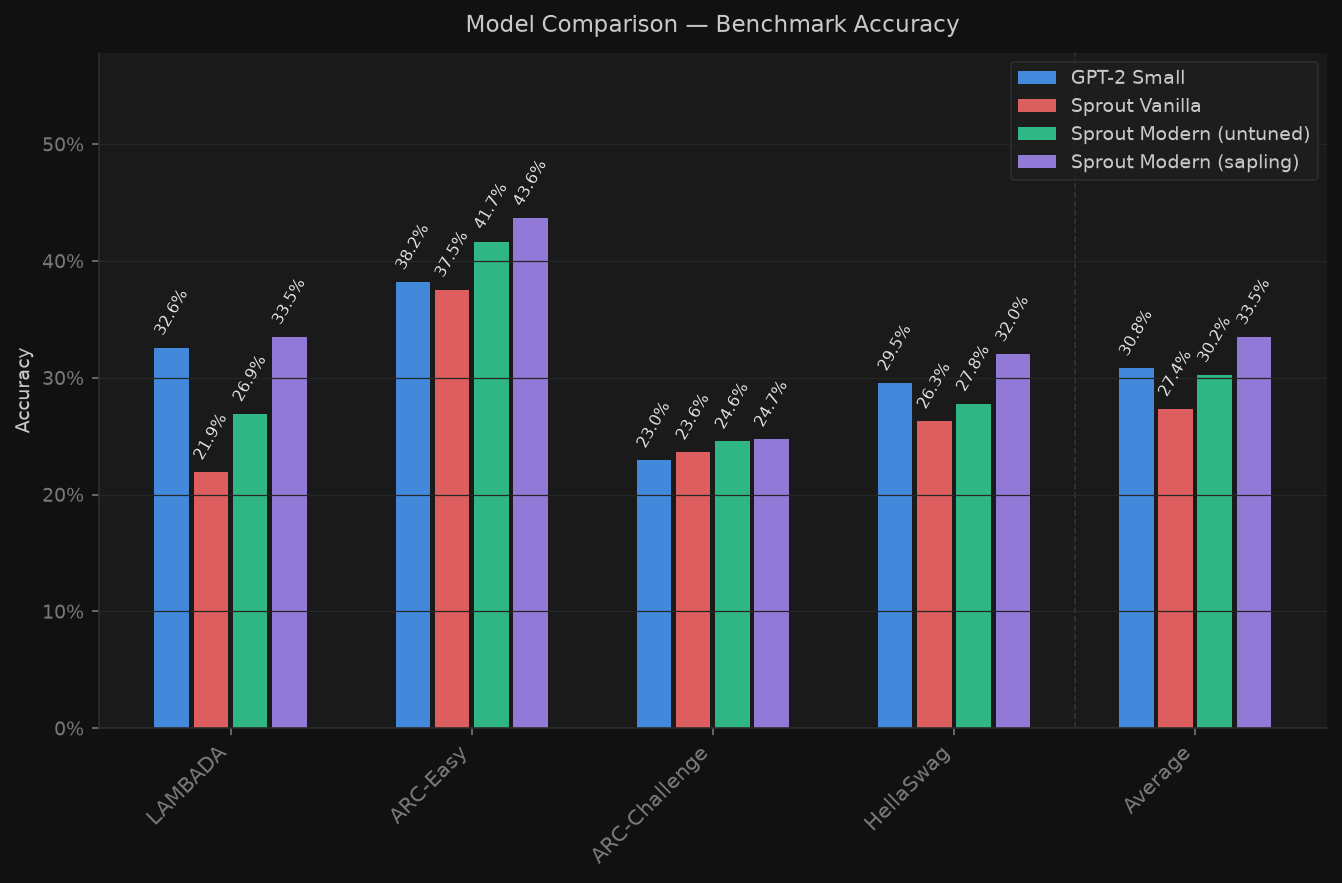
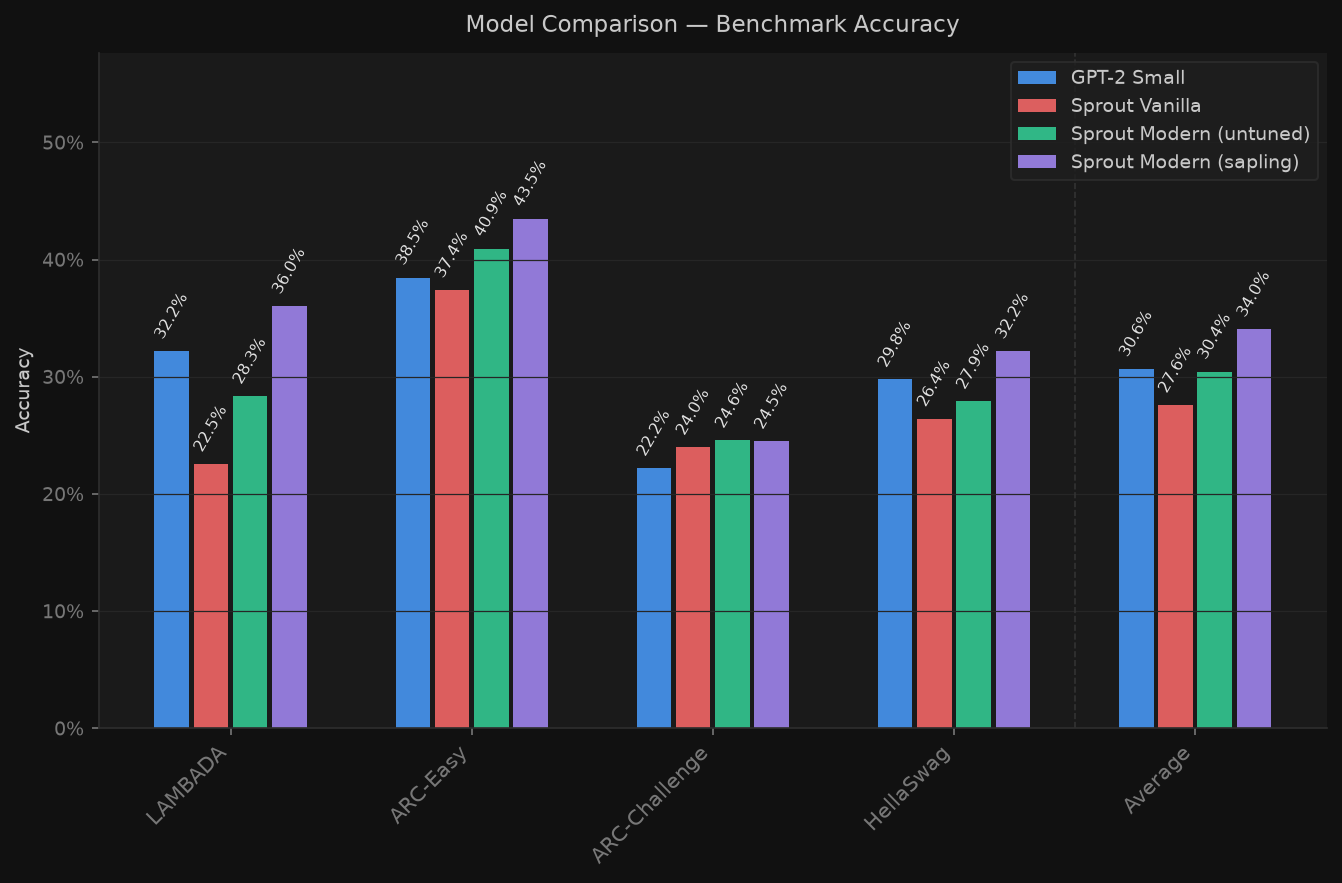
Rework the README; move the ablation to docs/; update the results to the v1.1 evaluation.

diff --git a/README.md b/README.md
@@ -1,83 +1,153 @@
-# Project: Sprout
+# Sprout
 
-A language model built from scratch — tokenizer, architecture, training loop, and SFT pipeline — trained entirely on a single consumer GPU (RTX 4070, 12GB VRAM) that is better than GPT-2-small. The 15B-token Sapling pretraining run alone took roughly 87 hours.
+Sprout is a small language model written from scratch in PyTorch. The project covers the tokenizer, the data pipeline, three model architectures, the training loop, benchmark evaluation and supervised fine-tuning (SFT). All models were trained locally on one NVIDIA RTX 4070 (12 GB). The largest model, Sapling, has 134M parameters and scores a 34.0% benchmark average. GPT-2 Small (124M) scores 30.6% on the same benchmarks.
 
-## Why
+![Benchmark accuracy of GPT-2 Small and the three Sprout models](assets/model_comparison.png)
 
-I'd used LLMs for a long time without really understanding what was happening inside them. After watching Andrej Karpathy's NanoGPT and NanoChat series, I wanted to answer two questions for myself: could I build and train a language model completely locally and get something *usable* out of it, and how much do the architectural advances since GPT-2 actually matter in practice — not in a paper's ablation table, but on my own hardware, with my own data.
+## Background
 
-So Sprout is both a from-scratch implementation and a running experiment: start with a GPT-2-style baseline, swap in the modern component stack one piece at a time, scale up, and see how far a 12GB card can take you.
+The project tests two questions. Can a language model be trained completely on local hardware and still give sensible results? Can architecture and optimizer techniques from recent years beat a model that was trained with more compute a few years earlier? GPT-2 Small serves as that reference model.
 
-## The Story: Vanilla → Modern → Sapling
+## Usage
 
-The project moved through three stages, each answering a different question. All models were trained on the same pretraining data (45% FineWeb-Edu, 45% DCLM Baseline, 6% FineMath-Edu, 4% Olmo Mix-StarCoder), with a context length of 1024 and a custom byte-level BPE tokenizer (32,767 tokens).
+Requirements: Python 3.12, PyTorch 2.11 with CUDA, and an NVIDIA GPU with bfloat16 support. Install the package in a virtual environment:
 
-**Vanilla** — a GPT-2-style baseline (~110M params): standard multi-head attention, learned positional embeddings, GELU FFN, AdamW + cosine schedule. This model acts as a baseline for comparison, and answers the question *"does this work at all?"*
+```bash
+git clone https://github.com/philipp-sz/Sprout.git
+cd Sprout
+python -m venv .venv
+source .venv/bin/activate
+pip install -r requirements.txt
+pip install -e .
+```
 
-**Modern (untuned)** — the same scale (~100M params), but with the current-generation component stack swapped in: RMSNorm, RoPE, GQA, QK-Norm, ReLU², Muon+AdamW, and a WSD schedule. This isolates the effect of the architecture and optimizer changes alone, independent of scale.
+The pipeline runs as a sequence of scripts. Paths, checkpoints and hyperparameters are set at the top of each script and in the `config.py` files.
 
-**Sapling** — the flagship model (134M params, matching SmolLM2-135M for comparison). Modern stack, further tuned, trained on 15B tokens with a wider architecture chosen after an ablation study (below), then instruction-tuned via SFT to produce a chat-capable model.
+```bash
+python -m sprout.tokenizer.download_tokenizer_data   # sample text for the tokenizer
+python -m sprout.tokenizer.train_tokenizer           # train the byte-level BPE tokenizer
+python -m sprout.data.run_data_processing            # tokenize the pretraining mix into shards
+python -m sprout.base.run_training                   # train Vanilla
+python -m sprout.modern.run_training                 # train Modern / Sapling
+python -m sprout.modern.run_eval                     # LAMBADA, ARC-Easy, ARC-Challenge, HellaSwag
+python -m sprout.modern.inference                    # sample text from a checkpoint
+```
+
+SFT adds two chat tokens to the tokenizer and the embedding table, then fine-tunes:
+
+```bash
+python -m sprout.tokenizer.extend_tokenizer
+python -m sprout.sft.resize_model_embeddings
+python -m sprout.sft.run_sft_data_processing
+python -m sprout.sft.run_sft_training
+python -m sprout.sft.inference                       # chat with the fine-tuned model
+```
+
+`pytest` runs the tests for the tokenizers and the data loader.
 
 ## Results
 
-![Benchmark comparison](assets/model_comparison.png)
+Three models were trained on the same data with the same tokenizer and a context length of 1024.
 
-Sapling reaches a 33.5% average across LAMBADA, ARC-Easy, ARC-Challenge, and HellaSwag — ahead of GPT-2 Small (30.8%) at a comparable parameter count, and a clear step up over both the vanilla baseline (27.4%) and the untuned modern model (30.2%). The gap between vanilla and modern-untuned shows what the architecture swap alone bought; the gap between modern-untuned and Sapling shows what additional scale and tuning bought on top of that.
+- Vanilla is a GPT-2-style baseline.
+- Modern keeps Vanilla's size and replaces the architecture, optimizer and learning-rate schedule with current components.
+- Sapling uses the Modern components with a wider shape, 4 KV heads, an MLP expansion of 4.75 and 15B training tokens.
 
-### Architecture ablation: why wide-and-shallow
+Benchmark accuracy is measured with the evaluator in `sprout/eval.py` on the full test sets. GPT-2 Small was evaluated with the same code.
 
-Conventional wisdom (MobileLLM, SmolLM2) says deeper-and-narrower wins for small language models — but usually that result shows up late in training, after a lot of tokens. Compute-constrained to a single GPU, I cared more about tokens-per-wall-clock-hour than the theoretical optimum, so I ran a short ablation before committing to Sapling's final shape:
+| Model | Parameters | Training tokens | LAMBADA | ARC-Easy | ARC-Challenge | HellaSwag | Average |
+|---|---|---|---|---|---|---|---|
+| GPT-2 Small | 124M | not disclosed | 32.2% | 38.5% | 22.2% | 29.8% | 30.6% |
+| Vanilla | 111M | 2.5B | 22.5% | 37.4% | 24.0% | 26.4% | 27.6% |
+| Modern | 100M | 2.5B | 28.3% | 40.9% | 24.6% | 27.9% | 30.4% |
+| Sapling | 134M | 15B | 36.0% | 43.5% | 24.5% | 32.2% | 34.0% |
 
-![Architecture ablation](assets/architecture_ablation.png)
+Vanilla and Modern each trained for about 13 hours. Sapling trained for about 88 hours at 48,000 tokens per second. Its loss curves:
 
-Three architectures — wide (8 layers, d=1024), medium (16 layers, d=768), and deep (30 layers, d=576, close to SmolLM2's own shape) — trained for a fixed ~1000 steps. At equal wall-clock time, wide was consistently ahead on benchmark accuracy, and the token-budget panel shows why: in any fixed training window, the wide model simply gets through more data — roughly 3–4B more tokens than deep in the same 24–72 hours. Given the deep model's theoretical advantage mostly pays off over very long horizons I can't afford locally, I took the throughput win and went wide for Sapling. It's an acknowledged tradeoff, not a free lunch — the ablation itself is a bit informal (batch sizes weren't matched across runs), but it was directionally decisive enough to commit to.
+![Training and evaluation loss of Sapling](assets/loss.png)
 
-### Training dynamics
+After SFT on 200M tokens of `smol-smoltalk`, Sapling holds a short multi-turn conversation:
 
-![Sapling training and eval loss](assets/loss.png)
+![Chat with the fine-tuned Sapling model](assets/demo_conversation.png)
 
-Loss curves for the full 15B-token Sapling pretraining run.
+The choice of Sapling's shape is based on a short architecture ablation, described in [`docs/ablation.md`](docs/ablation.md).
 
-## Talking to Sapling
+## How it works
 
-After SFT, Sapling holds a short multi-turn conversation, follows instructions, and stays roughly on-topic — a genuinely useful sanity check for a 134M-parameter model trained on one GPU:
+### Tokenizer
 
-![Demo conversation with Sapling](assets/demo_conversation.png)
+A byte-level BPE tokenizer is trained from scratch. It has 256 byte tokens, 32,511 merges and one end-of-text token, for a vocabulary of 32,768. The fast trainer (`fast_bpe_tokenizer.py`) stores the corpus as linked lists and keeps pair counts in a max-heap with lazy deletion. After each merge it only updates the pairs next to the merged position.
 
-## Architecture
+### Data
 
-| | Vanilla | Modern (untuned) | Sapling |
+The pretraining mix is streamed from Hugging Face, tokenized with 8 worker processes and written to fixed-size `.npy` shards. Metadata records the processed rows, so an interrupted run resumes where it stopped.
+
+| Source | Share |
+|---|---|
+| FineWeb-Edu | 45% |
+| DCLM Baseline 1.0 | 45% |
+| FineMath (`finemath-4plus`) | 6% |
+| StarCoder subset of OLMo Mix 1124 | 4% |
+
+### Models
+
+| | Vanilla | Modern | Sapling |
 |---|---|---|---|
-| **Architecture** | | | |
-| Parameters | ~110M | ~100M | 134M |
+| Layers | 12 | 12 | 8 |
 | `d_model` | 768 | 768 | 1024 |
-| `num_layers` | 12 | 12 | 8 |
-| `num_heads` (Q) | 12 | 12 | 16 |
-| `num_kv_heads` | — (MHA) | 4 (GQA) | 4 (GQA) |
-| `mlp_expansion` | 4× (GELU) | 4× (ReLU²) | 4.75× (ReLU²) |
-| Position encoding | Learned | RoPE (base 5,000) | RoPE (base 5,000) |
-| Normalization | LayerNorm | RMSNorm + QK-Norm | RMSNorm + QK-Norm |
-| `max_seq_len` | 1024 | 1024 | 1024 |
-| `vocab_size` | 32,768 | 32,768 | 32,768 |
-| **Optimizer** | | | |
+| Query heads / KV heads | 12 / 12 | 12 / 3 | 16 / 4 |
+| Attention | multi-head | grouped-query | grouped-query |
+| Position encoding | learned | RoPE (base 5,000) | RoPE (base 5,000) |
+| Normalization | LayerNorm | RMSNorm, QK-Norm | RMSNorm, QK-Norm |
+| MLP | 4×, GELU | 4×, ReLU² | 4.75×, ReLU² |
 | Optimizer | AdamW | Muon + AdamW | Muon + AdamW |
-| `max_learning_rate` | 6e-4 | 6e-4 | 1e-3 |
-| Schedule | Cosine | WSD (2% warmup / 10% decay) | WSD (2% warmup / 10% decay) |
-| `weight_decay` | 0.1 | 0.1 | 0.1 |
-| `betas` | (0.9, 0.95) | (0.9, 0.95) | (0.9, 0.95) |
-| **Training** | | | |
-| Pretraining tokens | 2.5B | 2.5B | 15B |
-| Effective batch size | ~500,000 | same | same |
-| `grad_clip` | 1.0 | 1.0 | 1.0 |
+| Peak learning rate | 6e-4 | 1e-3 | 1e-3 |
+| Schedule | cosine, 2% warmup | WSD, 2% warmup, 10% decay | WSD, 2% warmup, 10% decay |
+| Tokens per step | 512,000 | 516,096 | 512,000 |
+| Training tokens | 2.5B | 2.5B | 15B |
 
-## Pipeline
+All models tie the input embedding to the output layer and use weight decay 0.1, betas (0.9, 0.95) and gradient clipping at 1.0. Muon updates the 2D weight matrices. AdamW updates the embeddings, norms and other parameters. The Modern models include a KV cache for generation. When a generation exceeds the 1024-token context, the cache is refilled with the most recent 512 tokens. The batch sizes in the `config.py` files default to 64 × 16 sequences. The training scripts override them to fit into 12 GB (10 × 50 or 12 × 42).
 
-1. **Tokenizer** — byte-level BPE trained from scratch, including a from-scratch implementation of the training algorithm (linked-list merge tracking + lazy-deletion max-heap for pair counts, since the naive approach doesn't scale to real corpora).
-2. **Data processing** — streaming tokenization and sharding of FineWeb-Edu (pretraining) and smol-smoltalk (SFT) into fixed-size shards, with resumable metadata tracking.
-3. **Pretraining** — custom training loop: BF16 mixed precision, `torch.compile`, FlashAttention 2, gradient clipping, WSD learning rate schedule, Muon for 2D weight matrices with AdamW for embeddings/head/norms.
-4. **Evaluation** — HellaSwag, ARC-Easy, ARC-Challenge, LAMBADA via log-likelihood scoring.
-5. **SFT** — ChatML-formatted conversational fine-tuning with role-conditional loss masking and conversation-respecting sequence packing.
+### Training
 
----
+The training loop in `sprout/train.py` uses bfloat16 autocast, `torch.compile`, FlashAttention through `scaled_dot_product_attention`, gradient accumulation and resumable checkpoints. Every 250 steps it logs loss, gradient norm, throughput and a 1,000-sample benchmark estimate.
 
-Built by Philipp.
+### Evaluation
+
+Multiple-choice benchmarks (ARC-Easy, ARC-Challenge, HellaSwag) score each answer by its length-normalized log-likelihood given the context. LAMBADA checks whether the model predicts the final word. Every scored sequence starts with the end-of-text token, which separates documents during pretraining. GPT-2 Small is scored the same way with its own `<|endoftext|>` token. Version 1.0 scored without this prefix, and Sapling's average was 33.5% with that protocol (tag `v1.0`).
+
+### SFT
+
+Conversations are formatted in ChatML with `<|im_start|>` and `<|im_end|>`. The loss is computed only on assistant tokens. Whole conversations are packed into 1024-token sequences, and the remainder is padded. Conversations longer than 1024 tokens are skipped.
+
+## Project structure
+
+```
+sprout/
+  tokenizer/   BPE tokenizer: reference and fast implementation, training scripts
+  data/        streaming, tokenization and sharding
+  base/        Vanilla model, config, training, evaluation, inference
+  modern/      Modern model (also used for Sapling), config, training, evaluation, inference
+  sft/         ChatML data processing, embedding resize, SFT training, chat inference
+  baselines/   evaluation of Hugging Face models (GPT-2 Small)
+  utils/       sampling, plotting, model helpers
+  train.py     training loop
+  eval.py      benchmark evaluator
+docs/          architecture ablation
+tests/         tokenizer and data loader tests
+```
+
+## Limitations
+
+- Model weights, tokenizer files and data shards are not published. Reproducing the results requires running the full pipeline.
+- Batch sizes differ slightly between the runs (512,000 and 516,096 tokens per step).
+- SFT packs several conversations into one sequence without intra-document masking. Tokens can attend to earlier conversations in the same sequence.
+- The models are trained on English text only.
+- The QK-Norm gains of the trained models were stored in bfloat16. Their updates were too small to change them, so they stayed at 1.0. Version 1.1 stores them in float32 for new training runs.
+- The tokenizer tests load a tokenizer state file that is not in the repository, so `pytest` fails on a fresh clone.
+
+Implemented by the author. The v1.1 bug fixes were made with Claude Code after a code review.
+
+## License
+
+MIT, see [`LICENSE`](LICENSE).

diff --git a/docs/ablation.md b/docs/ablation.md
@@ -1,0 +1,23 @@
+# Architecture ablation
+
+Before the 15B-token run, three shapes of the Modern architecture were trained on the same 525M tokens for 1,000 steps each. The ablation picks the shape for Sapling.
+
+| Shape | Layers | `d_model` | Query / KV heads | Parameters | Tokens per step | Throughput | Time for 1,000 steps | Final average |
+|---|---|---|---|---|---|---|---|---|
+| Wide | 8 | 1024 | 16 / 4 | 122M | 12 × 42 × 1024 | 51,400 tok/s | 2.8 h | 26.8% |
+| Medium | 16 | 768 | 12 / 4 | 126M | 10 × 50 × 1024 | 42,400 tok/s | 3.4 h | 27.0% |
+| Deep | 30 | 576 | 9 / 3 | 125M | 8 × 64 × 1024 | 35,000 tok/s | 4.2 h | 26.8% |
+
+All three use an MLP expansion of 4 and the Modern optimizer and schedule. The deep shape matches SmolLM2-135M. "Final average" is the mean accuracy on LAMBADA, ARC-Easy, ARC-Challenge and HellaSwag after the last step, on the full test sets.
+
+![Benchmark accuracy over wall-clock time and tokens per training window](architecture_ablation.png)
+
+After 1,000 steps the three shapes score within 0.2 percentage points of each other. The wide shape reaches that point in 2.8 h, the deep shape in 4.2 h. In a fixed training window the wide shape processes about 47% more tokens than the deep shape (13.3B against 9.1B in 72 h).
+
+Sapling uses the wide shape. Its MLP expansion was raised from 4 to 4.75, which brings it to 134M parameters, close to SmolLM2-135M.
+
+## Limitations
+
+- The batch sizes differ between the three runs. At step 1,000 the deep run had completed its learning-rate decay, while the wide and medium runs had not.
+- The curves in the left plot use the 1,000-sample benchmark estimates from the training log. They were measured without the end-of-text prefix (v1.0 protocol). Only the final points are full evaluations with the v1.1 protocol.
+- Each shape was trained once, for 525M tokens. Deeper shapes may pull ahead in longer runs.
